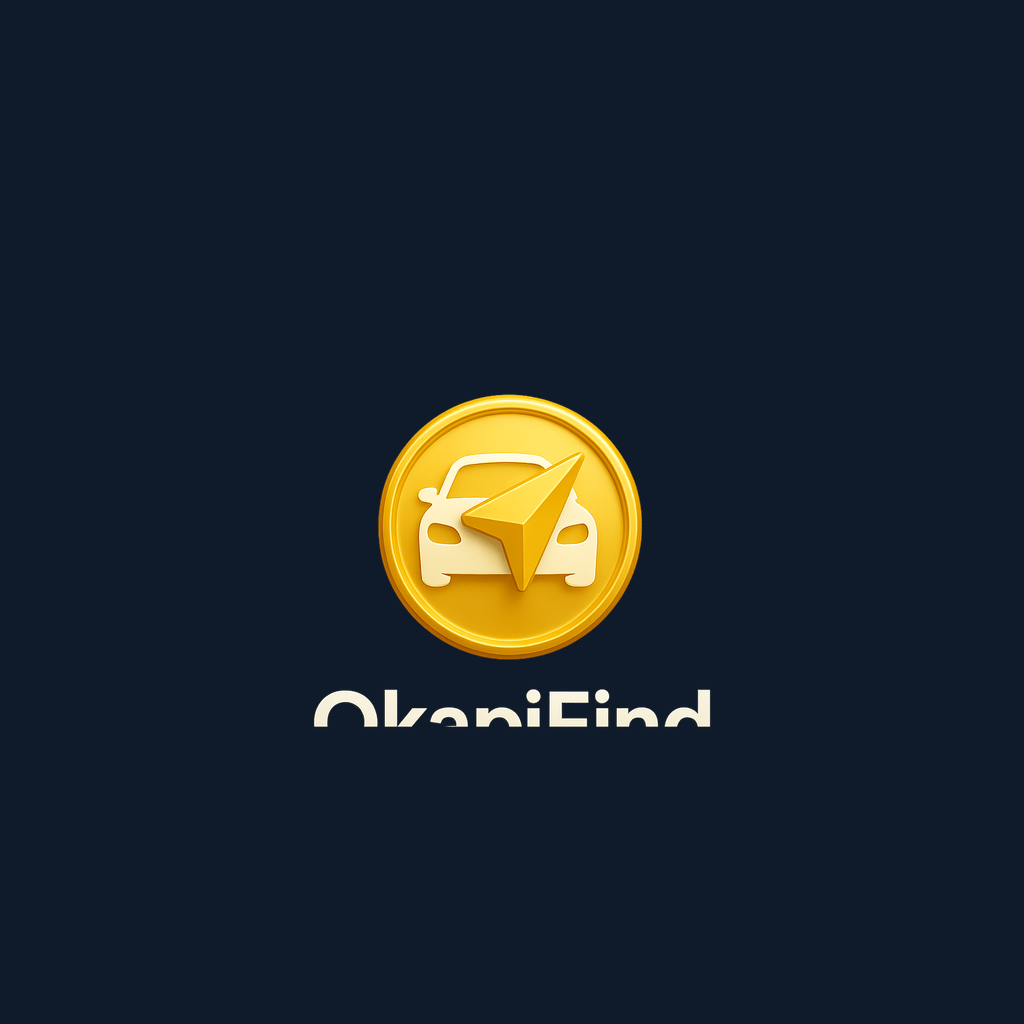
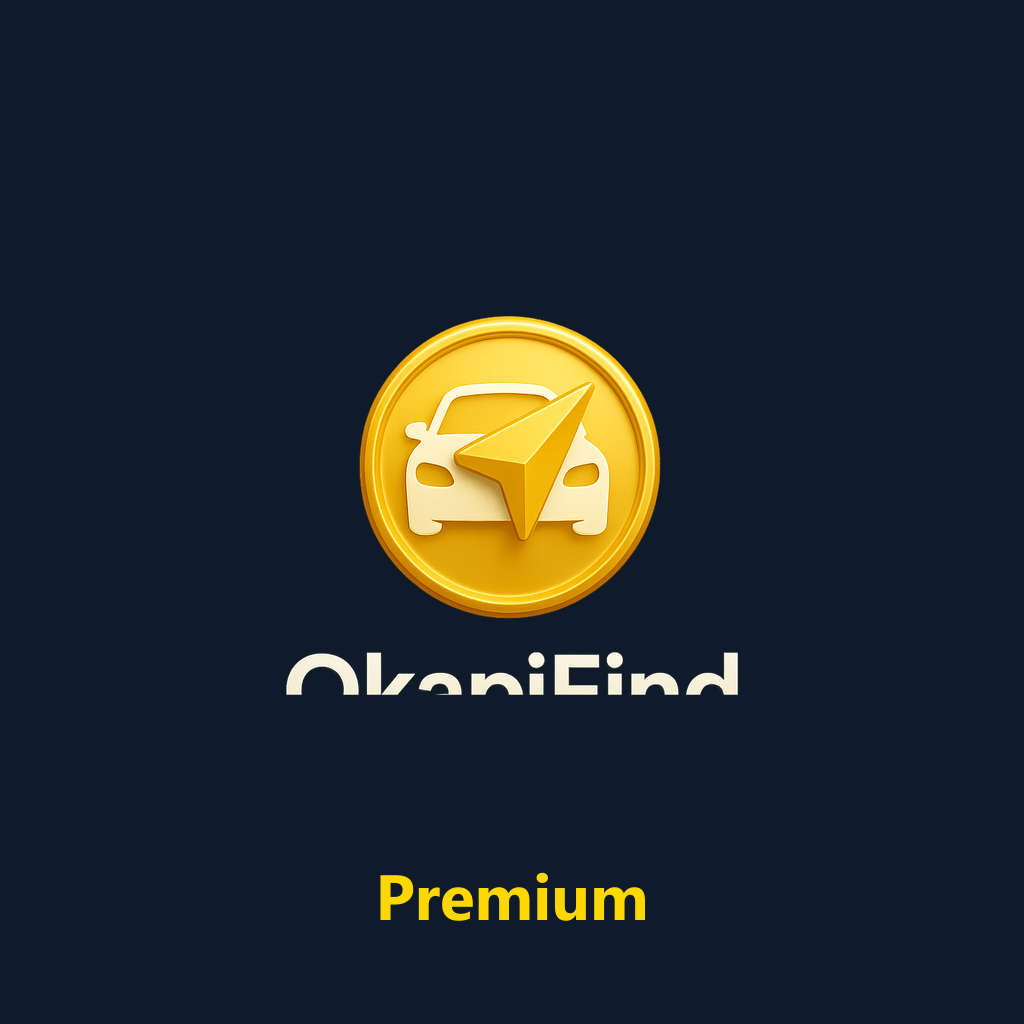
fix: Subscription promo image with fully visible text
- Larger icon (700x700) so OkapiFind text is visible
- Premium text in gold below
- 1024x1024 for App Store Connect

Changed region(s): [[0.2812, 0.2812, 0.7188, 0.7188], [0.375, 0.8438, 0.6562, 0.9062]]

diff --git a/OkapiFind/scripts/create-subscription-image.js b/OkapiFind/scripts/create-subscription-image.js
@@ -1,0 +1,69 @@
+const sharp = require('sharp');
+const path = require('path');
+
+async function createSubscriptionImage() {
+  const iconPath = path.join(__dirname, '..', 'assets', 'icon.png');
+  const outputPath = path.join(__dirname, '..', 'assets', 'app-store', 'ios', 'subscription', 'subscription-promo-1024x1024.png');
+
+  console.log('Creating subscription promotional image...');
+
+  // Navy background color
+  const navyColor = { r: 15, g: 27, b: 42, alpha: 1 }; // #0F1B2A
+
+  // Create 1024x1024 navy background
+  const background = await sharp({
+    create: {
+      width: 1024,
+      height: 1024,
+      channels: 4,
+      background: navyColor
+    }
+  }).png().toBuffer();
+
+  // Scale icon to 700x700 so OkapiFind text is visible
+  const iconSize = 700;
+  const scaledIcon = await sharp(iconPath)
+    .resize(iconSize, iconSize, { fit: 'contain' })
+    .toBuffer();
+
+  // Create text as SVG - just "Premium" below the icon
+  const textSvg = `
+    <svg width="1024" height="100">
+      <style>
+        .premium {
+          font-family: -apple-system, BlinkMacSystemFont, 'Segoe UI', Roboto, sans-serif;
+          font-size: 64px;
+          font-weight: 700;
+          fill: #FFD700;
+        }
+      </style>
+      <text x="512" y="70" text-anchor="middle" class="premium">Premium</text>
+    </svg>
+  `;
+
+  const textBuffer = Buffer.from(textSvg);
+
+  // Composite: larger icon centered, "Premium" text below
+  const result = await sharp(background)
+    .composite([
+      {
+        input: scaledIcon,
+        left: Math.floor((1024 - iconSize) / 2),
+        top: 100  // Position icon near top to make room for text
+      },
+      {
+        input: textBuffer,
+        left: 0,
+        top: 850  // Position "Premium" at bottom
+      }
+    ])
+    .toFile(outputPath);
+
+  console.log(`Created: ${outputPath}`);
+
+  // Verify
+  const meta = await sharp(outputPath).metadata();
+  console.log(`Size: ${meta.width}x${meta.height}`);
+}
+
+createSubscriptionImage().catch(console.error);
